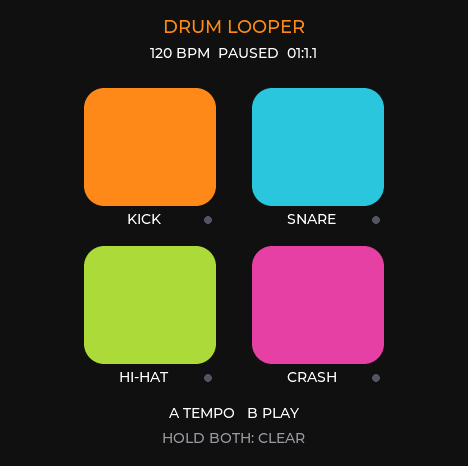
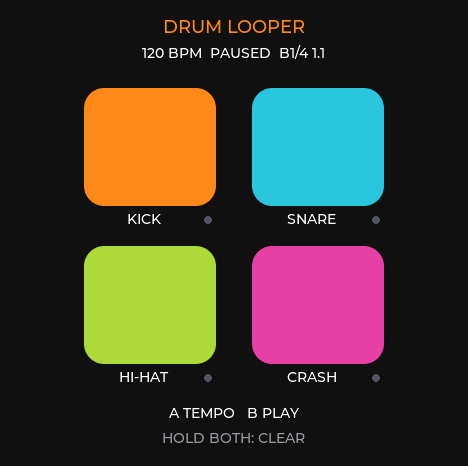
Correct Drum Looper to four measures

Changed region(s): [[0.2991, 0.0901, 0.6581, 0.1502]]

diff --git a/days/day-09-sound-effects/extensions/drum-looper/PROMPT.md b/days/day-09-sound-effects/extensions/drum-looper/PROMPT.md
@@ -2,11 +2,11 @@
 
 ## The assignment
 
-Turn the four-pad Day 09 instrument into a 16-bar drum looper.
+Turn the four-pad Day 09 instrument into a four-measure drum looper: 4/4 with 16 quarter notes total.
 The pads are Kick, Snare, Hi-Hat, and Crash.
 
 Start playback, then tap any pad to replace that instrument's track.
-The first tap clears only that pad's old pattern; every tap during the next full 16 bars becomes its replacement pattern.
+The first tap clears only that pad's old pattern; every tap during the next full four measures becomes its replacement pattern.
 The other three tracks keep playing untouched.
 
 There is no record mode.
@@ -59,23 +59,23 @@ Hardware and shared platform
 
 Loop and tracks
 
-- Use one fixed 4/4 loop containing 16 bars.
-- Quantize each track to sixteenth notes: 16 steps per bar, 256 steps per loop.
-- Keep four independent 256-bit tracks named Kick, Snare, Hi-Hat, and Crash.
+- Use one fixed 4/4 loop containing four measures and 16 quarter notes total.
+- Quantize each track to sixteenth notes: 16 steps per measure, 64 steps per loop.
+- Keep four independent 64-bit tracks named Kick, Snare, Hi-Hat, and Crash.
 - Use resident deterministic PCM for all four drum sounds and one immediate-retrigger speaker voice per sound or a bounded mixer that can start coincident hits without blocking the UI.
 - Keep a short resident metronome click on its own mixer channel. Sound it on every quarter note while playing, with a clearly higher accent on beat one of each bar. Do not click while paused.
 - Schedule from an absolute transport anchor. Never advance musical time by repeatedly delaying for one step.
-- At loop wrap, increment the pass counter. Each track's replacement window continues until 256 steps have elapsed from that track's own first replacement tap.
+- At loop wrap, increment the pass counter. Each track's replacement window continues until 64 steps have elapsed from that track's own first replacement tap.
 
 Automatic per-track replacement
 
 - A pad touch always auditions its sound immediately on touch-down.
 - While paused, audition only; do not change any track.
 - While playing, quantize the touch timestamp to the nearest sixteenth step with a deterministic tie rule.
-- The first touch of a pad when that track is not already replacing clears all 256 old steps for only that pad, opens a 256-step replacement window from the quantized hit, and writes the new hit.
+- The first touch of a pad when that track is not already replacing clears all 64 old steps for only that pad, opens a 64-step replacement window from the quantized hit, and writes the new hit.
 - Later touches of the same pad while its replacement window remains active add hits without clearing again.
 - The first touch of another pad independently clears and replaces only that other track.
-- When one track's 256-step window ends, its pattern becomes stored. Its next playing tap starts another whole-track replacement.
+- When one track's 64-step window ends, its pattern becomes stored. Its next playing tap starts another whole-track replacement.
 - Multiple touches quantized to the same track and step store one hit.
 - The live audition is not delayed to the quantized boundary. Quantization controls future playback only.
 
@@ -92,8 +92,8 @@ Physical controls
 Layout
 
 - Keep four 132 × 118 colored pads at the Day 09 positions with small labels underneath: KICK, SNARE, HI-HAT, CRASH.
-- Show DRUM LOOPER, current BPM, PLAYING or PAUSED, and BAR 01–16 with beat/subdivision progress above the pads.
-- A compact dot by each label is dim for an empty track, white for a stored pattern, and red while that track is inside its independent 256-step replacement window.
+- Show DRUM LOOPER, current BPM, PLAYING or PAUSED, and BAR 1–4 with beat/subdivision progress above the pads.
+- A compact dot by each label is dim for an empty track, white for a stored pattern, and red while that track is inside its independent 64-step replacement window.
 - Flash only the touched pad briefly. Do not animate the grid or delay its sound.
 - The footer shows A TEMPO, B PLAY or B PAUSE, and HOLD BOTH: CLEAR.
 - Keep every focus/pressed state inside the radius-226 safe area and leave no bottom strip.
@@ -103,10 +103,10 @@ Diagnostics and acceptance
 - Prefix serial lines with D09L_ and implement status, reset, action, advance, capture, touchlog, and calibrate commands.
 - Report hardware, geometry, touch-map version/generation, transport, BPM, step, bar, beat, subdivision, pass, four track hit counts, replacement flags and remaining steps, timing lateness, heap, PSRAM, stack, and the last named error.
 - Keep the performance path independent from USB readership. Do not print a line for each tick, click, pad touch, or scheduled drum hit. Command responses and bounded error summaries must not stall touch, rendering, audio, or the musical clock when no serial monitor is attached.
-- Domain-test 16-bar wrap, 256-step indexing, nearest-step quantization at both sides of a boundary and exact ties, pause/resume phase, tempo estimation, invalid tempo taps, independent replacement, duplicate-hit collapse, reset, and scheduling across timer rollover.
+- Domain-test four-measure wrap, 64-step indexing, nearest-step quantization at both sides of a boundary and exact ties, pause/resume phase, tempo estimation, invalid tempo taps, independent replacement, duplicate-hit collapse, reset, and scheduling across timer rollover.
 - Prove one track can be replaced without changing the other three and that two different tracks can be replaced during the same pass.
 - Over 100 injected pad touches, touch-to-audition p95 is at most 30 ms and no touch exceeds 50 ms.
-- Over 16 complete bars, no scheduled hit begins more than 3 ms late under normal UI load; report rather than hide overruns.
+- Over four complete loop passes (16 measures), no scheduled hit begins more than 3 ms late under normal UI load; report rather than hide overruns.
 - With an empty loop at 120 BPM, 12 seconds of playback produces 24 audible quarter-note clicks and advances 96 sixteenth steps. Repeat with USB connected but unread and with no monitor attached; neither condition may slow the clock.
 - Run 100 loop passes and repeated clear/rebuild cycles without memory loss or changes to the saved touch map.
 - Capture paused, playing, stored-pattern, and simultaneous-replacement frames.
@@ -120,4 +120,4 @@ Do not describe injected touches or scheduled timestamps as physical rhythm or l
 
 The Sound Effects Board plays isolated clips.
 The Drum Looper adds musical time, quantization, independent tracks, and a replacement gesture that needs no record screen or arm button.
-The player keeps performing on the pads while each instrument independently captures one complete 16-bar replacement.
+The player keeps performing on the pads while each instrument independently captures one complete four-measure replacement.

diff --git a/days/day-09-sound-effects/extensions/drum-looper/SPEC.md b/days/day-09-sound-effects/extensions/drum-looper/SPEC.md
@@ -3,7 +3,7 @@
 ## Objective
 
 Build a four-pad, four-track drum looper on the M5Stack Stopwatch.
-The loop is 4/4, 16 bars, and quantized to sixteenth notes.
+The loop is 4/4, four measures (16 quarter notes total), and quantized to sixteenth notes.
 Kick, Snare, Hi-Hat, and Crash are recorded and replaced independently without a dedicated record mode.
 
 ## Shared platform contract
@@ -28,8 +28,8 @@ A short both-button chord has no runtime action.
 ## Musical grid
 
 The meter is fixed at 4/4.
-The loop contains exactly 16 bars, four beats per bar, and four sixteenth subdivisions per beat.
-There are 16 steps per bar and 256 steps per loop, indexed 0–255.
+The loop contains exactly four measures, four beats per measure, and four sixteenth subdivisions per beat.
+There are 16 steps per measure and 64 steps per loop, indexed 0–63.
 
 For step `s`:
 
@@ -37,7 +37,7 @@ For step `s`:
 - beat is `floor((s mod 16) / 4) + 1`; and
 - subdivision is `(s mod 4) + 1`.
 
-Each track is a 256-bit set.
+Each track is a 64-bit set.
 Memory and runtime must remain bounded regardless of performance length.
 
 ## Portable state
@@ -45,7 +45,7 @@ Memory and runtime must remain bounded regardless of performance length.
 The normative fields and exact scenarios live in `tests/contract.json`.
 Portable state includes transport, BPM, step, pass, four hit counts, four replacement flags, four replacement-step counters, last pad, total live taps, and a bounded error enum.
 
-The real portable core additionally owns the four 256-bit patterns, the absolute transport anchor, fractional paused phase, tap-tempo interval window, and deterministic quantization helpers.
+The real portable core additionally owns the four 64-bit patterns, the absolute transport anchor, fractional paused phase, tap-tempo interval window, and deterministic quantization helpers.
 Reducers never mutate their input.
 
 ## Transport and scheduling
@@ -60,9 +60,9 @@ Handle the platform timer's unsigned rollover with wrap-safe differences.
 Play starts or resumes from the retained step and fractional phase.
 Pause freezes both.
 The first-ever play begins at step 0.
-Advancing from step 255 wraps to step 0 and increments the pass counter.
+Advancing from step 63 wraps to step 0 and increments the pass counter.
 It does not end a replacement merely because global step 0 was crossed.
-Each track ends independently after 256 musical steps have elapsed from its own replacement start.
+Each track ends independently after 64 musical steps have elapsed from its own replacement start.
 
 If two or more tracks contain a hit on one scheduled step, start them on that same boundary through a bounded mixer or independent prepared channels.
 Track overlap must not serialize or drop a hit.
@@ -94,13 +94,13 @@ Every touch-down starts the pad's resident drum sound immediately.
 This live audition path does not wait for quantization, transport scheduling, release, synthesis, allocation, or storage.
 
 While paused, no pattern changes.
-While playing, quantize the touch timestamp to the nearest sixteenth boundary in the current 256-step loop.
+While playing, quantize the touch timestamp to the nearest sixteenth boundary in the current 64-step loop.
 An exact half-step tie resolves forward to the later step.
-Quantization across the step-255 boundary may write step 0 of the next pass; that write belongs to the next pass and must use its replacement state.
+Quantization across the step-63 boundary may write step 0 of the next pass; that write belongs to the next pass and must use its replacement state.
 
 For the selected track and quantized target tick:
 
-1. If the track is not already replacing, clear all 256 old bits for that track only, mark it replacing, and set its exclusive end tick to `target_tick + 256`.
+1. If the track is not already replacing, clear all 64 old bits for that track only, mark it replacing, and set its exclusive end tick to `target_tick + 64`.
 2. Set the quantized step bit.
 3. If that bit was already set, keep one hit.
 4. Leave every other track's pattern, hit count, and replacement flag unchanged.
@@ -138,9 +138,9 @@ Reuse the four Day 09 pad bounds:
 - `(84,246,132,118)` Hi-Hat; and
 - `(252,246,132,118)` Crash.
 
-Show `DRUM LOOPER` above the pads, followed by BPM, PLAYING or PAUSED, and `BAR nn / 16` with beat and subdivision.
+Show `DRUM LOOPER` above the pads, followed by BPM, PLAYING or PAUSED, and `BAR nn / 4` with beat and subdivision.
 Keep pad labels small and directly underneath their color fields.
-A compact dot beside each label is dim for empty, white for a stored pattern, and red during that track's independent 256-step replacement window.
+A compact dot beside each label is dim for empty, white for a stored pattern, and red during that track's independent 64-step replacement window.
 Flash the pressed pad briefly without moving or resizing it.
 
 The footer shows `A TEMPO`, `B PLAY` or `B PAUSE`, and `HOLD BOTH: CLEAR`.
@@ -170,7 +170,7 @@ The `espt-touch` namespace remains read-only outside calibration.
 - first Snare tap independently clears only Snare while Kick is already replacing;
 - paused pad audition changes no pattern;
 - duplicate hits on one quantized step collapse;
-- step 255 wraps to step 0 without truncating a track's independent 256-step replacement window;
+- step 63 wraps to step 0 without truncating a track's independent 64-step replacement window;
 - both-button hold clears every track but preserves BPM; and
 - simultaneous scheduled track hits share one musical boundary.
 - an empty 120 BPM loop produces 24 clicks and 96 sixteenth steps in 12 seconds; and

diff --git a/days/day-09-sound-effects/extensions/drum-looper/RESULTS.md b/days/day-09-sound-effects/extensions/drum-looper/RESULTS.md
@@ -1,7 +1,7 @@
 # Drum Looper contract results
 
 The generalized state suite generated three disposable reducer shapes from `tests/contract.json`.
-Each passed 351,390 assertions covering defaults, bounds, deterministic nonmutation, play/pause/resume, the audible-grid state, valid and stale tap-tempo input, independently anchored 256-step replacement windows, same-step hit collapse, paused audition, loop wrap, replacement completion and restart, reset, Stopwatch metadata, round-screen layout, and 10,000 generated actions.
+Each passed 351,390 assertions covering defaults, bounds, deterministic nonmutation, play/pause/resume, the audible-grid state, valid and stale tap-tempo input, independently anchored 64-step replacement windows, same-step hit collapse, paused audition, loop wrap, replacement completion and restart, reset, Stopwatch metadata, round-screen layout, and 10,000 generated actions.
 A fourth reducer with its first transition removed failed as required.
 
 The reference frame was rendered at 468 × 466 from the declared paused state.
@@ -9,18 +9,18 @@ It defines visual intent only.
 
 A disposable candidate then passed sanitizer-backed domain checks for bitsets, replacement, quantization ties, tempo estimation, deterministic PCM, non-silence, and the 256 KiB audio limit.
 The pinned Arduino ESP32 3.3.10, M5Unified 0.2.19, M5GFX 0.2.26, and LVGL 9.3.0 toolchain compiled it for ESP32-S3 with OPI PSRAM.
-The corrected application used 916,979 bytes of its 3,145,728-byte slot and 31,680 bytes of static RAM.
+The corrected four-measure application used 916,855 bytes of its 3,145,728-byte slot and 31,584 bytes of static RAM.
 
 An app-partition-only update loaded the candidate onto the attached M5Stack Stopwatch without replacing NVS.
 The device retained shared touch map version 2, generation 2, and reported the required 468 × 466 geometry.
 Injected-device checks established:
 
-- independent Kick and Snare replacement across a complete 256-step window;
+- independent Kick and Snare replacement across a complete 64-step window;
 - paused audition without pattern edits and whole-track override on the next playing tap;
 - tap-tempo update and reset preserving the chosen BPM;
-- 100 live audio starts at 26 µs p95 and 890 µs maximum request-to-accepted latency;
-- an empty 120 BPM loop advancing exactly 96 sixteenth steps and scheduling exactly 24 quarter-note clicks in 12 seconds, with zero late steps;
-- one real-time 16-bar pass scheduling 65 clicks through its four-step observation tail, with zero late steps;
+- 100 live audio starts at 35 µs p95 and 886 µs maximum request-to-accepted latency;
+- an empty 120 BPM loop advancing exactly 96 sixteenth steps, completing one four-measure pass, and scheduling exactly 24 quarter-note clicks in 12 seconds, with zero late steps;
+- one real-time four-measure pass scheduling 17 clicks through its four-step observation tail, with zero late steps;
 - 100 accelerated loop passes with stable heap and PSRAM; and
 - clean empty, stored-pattern, and hand-review framebuffers with the header, pads, footer, and bottom edge intact.
 
@@ -32,3 +32,6 @@ The first device candidate emitted serial diagnostics from the performance path 
 With no host reader, its transport fell as much as four seconds behind and reported `transport_overrun`.
 The durable prompt, specification, contract, testing notes, and hand review now require a beat-one-accented quarter-note click and prohibit tick, click, pad, and scheduled-hit logging from the hot path.
 The regenerated candidate passed the unread-USB clock check and the complete injected-device suite before hand review resumed.
+
+The first candidate treated 16 as the measure count; the intended musical length was 16 quarter notes: four measures of 4/4.
+The source prompt, specification, portable contract, reference frame, generated candidate, and device checks were all revised to make 64 sixteenth-note positions the single loop boundary.

diff --git a/days/day-09-sound-effects/extensions/drum-looper/TESTING.md b/days/day-09-sound-effects/extensions/drum-looper/TESTING.md
@@ -11,9 +11,9 @@ It proves the declared workflow is internally consistent; it does not prove musi
 
 A generated candidate adds domain fixtures for:
 
-- 16 bars × 4 beats × 4 subdivisions and exact 0–255 indexing;
-- quantization immediately before, at, and after a half-step, including the step-255 wrap;
-- four independent 256-bit tracks, duplicate-hit collapse, and independently anchored 256-step replacement windows;
+- four measures × 4 beats × 4 subdivisions and exact 0–63 indexing;
+- quantization immediately before, at, and after a half-step, including the step-63 wrap;
+- four independent 64-bit tracks, duplicate-hit collapse, and independently anchored 64-step replacement windows;
 - pause/resume fractional phase and absolute-deadline scheduling across timer rollover;
 - median tap tempo with valid, invalid, stale, minimum, and maximum intervals;
 - simultaneous multi-track dispatch on one boundary and explicit lateness accounting;
@@ -23,7 +23,7 @@ A generated candidate adds domain fixtures for:
 - reset clearing patterns while preserving BPM and the shared calibration record.
 
 On an instrumented Stopwatch, exercise real LVGL hit testing and the audio mixer with injected timestamps.
-Measure 100 immediate pad auditions, 16-bar scheduling under UI load, 100 complete loop passes, repeated replace/clear cycles, memory stability, framebuffer captures, and touch-map preservation.
+Measure 100 immediate pad auditions, four complete loop passes under UI load, 100 accelerated loop passes, repeated replace/clear cycles, memory stability, framebuffer captures, and touch-map preservation.
 
 Finish with [HAND-REVIEW.md](HAND-REVIEW.md).
 Only a person playing and listening can establish groove, tap-tempo feel, drum balance, and thumb/index ergonomics.

diff --git a/days/day-09-sound-effects/README.md b/days/day-09-sound-effects/README.md
@@ -196,15 +196,15 @@ Perceived sound quality, physical pusher feel, and physical touch alignment stil
 
 ## Next exercise: Drum Looper
 
-Keep the four-pad view, but turn it into a 16-bar, 4/4 looper with independent Kick, Snare, Hi-Hat, and Crash tracks.
-There is no record mode: while the loop plays, the first tap on a pad clears only that pad's old track and opens a full 16-bar replacement window for that instrument.
+Keep the four-pad view, but turn it into a four-measure, 4/4 looper with 16 quarter notes total and independent Kick, Snare, Hi-Hat, and Crash tracks.
+There is no record mode: while the loop plays, the first tap on a pad clears only that pad's old track and opens a full four-measure replacement window for that instrument.
 An audible quarter-note click, with a higher beat-one accent, supplies the grid even before any drum track exists.
 
 ![Drum Looper running on the M5Stack Stopwatch](https://esptember.com/images/day-09-sound-effects/drum-looper-device.png)
 
 This framebuffer was captured from the generated device candidate after its injected-device checks, reset to an empty loop at 120 BPM.
 
-The [Drum Looper exercise](https://github.com/chantastic/esptember/tree/main/days/day-09-sound-effects/extensions/drum-looper) specifies its 256-step loop, per-track replacement rule, tap tempo, play/pause and clear controls, musical clock, tests, and hand review.
+The [Drum Looper exercise](https://github.com/chantastic/esptember/tree/main/days/day-09-sound-effects/extensions/drum-looper) specifies its 64-step loop, per-track replacement rule, tap tempo, play/pause and clear controls, musical clock, tests, and hand review.
 
 ## After that: Sampler + Voice Changer
 

diff --git a/days/day-09-sound-effects/extensions/drum-looper/HAND-REVIEW.md b/days/day-09-sound-effects/extensions/drum-looper/HAND-REVIEW.md
@@ -14,10 +14,10 @@ Reviewer: ____________________  Date: ____________________
 - [ ] The first Kick tap in a pass removes the old Kick pattern while Snare, Hi-Hat, and Crash continue unchanged.
 - [ ] Additional Kick taps in that pass build the replacement pattern.
 - [ ] Starting a Snare replacement does not stop or erase the Kick replacement.
-- [ ] A replacement started mid-loop continues across bar 16 and ends only after that track has captured a full 16 bars.
+- [ ] A replacement started mid-loop continues across measure 4 and ends only after that track has captured four complete measures.
 - [ ] After a track's full replacement window ends, its next playing tap replaces that track again.
 - [ ] Simultaneous scheduled drums sound together without obvious dropping or flamming.
-- [ ] The 16-bar loop returns to bar 1 cleanly and stays rhythmically stable.
+- [ ] The four-measure loop returns to measure 1 cleanly and stays rhythmically stable.
 - [ ] Holding both pushers clears the loop, stops at bar 1, and preserves the chosen tempo.
 - [ ] Track-state dots clearly distinguish empty, stored, and currently replacing tracks.
 - [ ] Pads remain responsive around the whole face; labels, focus states, and footer do not clip.
